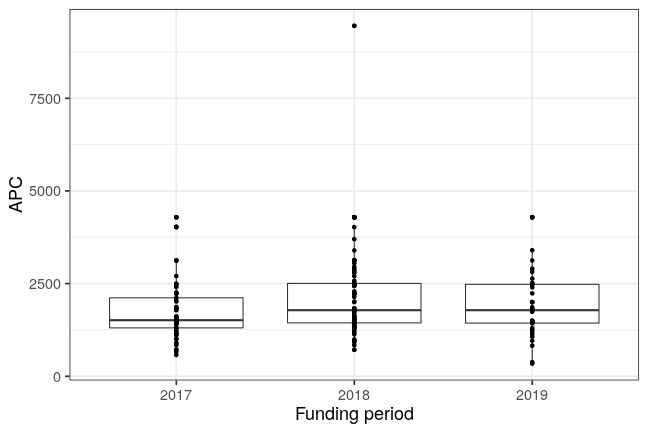
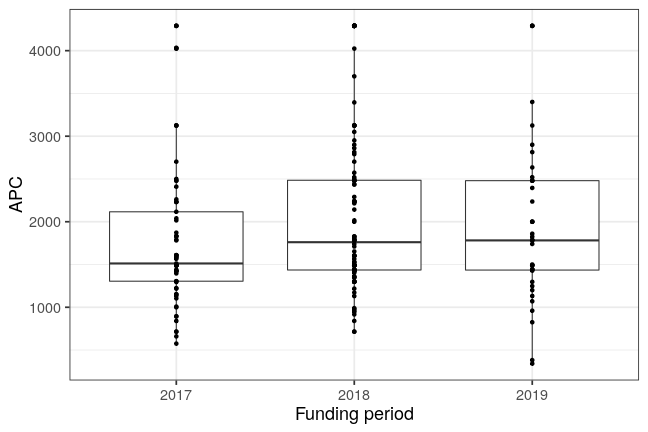
update: geomar joins openapc

diff --git a/_posts/2019-06-06-geomar.md b/_posts/2019-06-06-geomar.md
@@ -16,13 +16,13 @@ We welcome the [GEOMAR - Helmholtz Centre for Ocean Research Kiel](https://www.g
 
 The [GEOMAR Library](https://www.geomar.de/en/centre/central-facilities/library/) manages the institution's APC expenditures in accordance with the GEOMAR [OA Policy](http://oceanrep.geomar.de/oa.html).
 
-Contact Person is [Barbara Schmidt](mailto:bibliotheksleitung@geomar.de).
+Contact Persons are [Barbara Schmidt and Heidi Düpow](mailto:bibliotheksleitung@geomar.de).
 
 ## Cost data
 
 
 
-The initial dataset provided by the GEOMAR covers publication fees for 208 articles published from 2017 to 2019. Total expenditure amounts to 414 096€ and the average fee is 1 991€.
+The initial dataset provided by the GEOMAR covers publication fees for 208 articles published from 2017 to 2019. Total expenditure amounts to 405 587€ and the average fee is 1 950€.
 
 
 |                                  | Articles| Fees paid in EURO| Mean Fee paid|
@@ -48,7 +48,7 @@ The initial dataset provided by the GEOMAR covers publication fees for 208 artic
 |Georg Thieme Verlag KG            |        1|              2500|          2500|
 |IOP Publishing                    |        1|              1800|          1800|
 |Optical Society of America (OSA)  |        1|              2215|          2215|
-|PeerJ                             |        1|              9454|          9454|
+|PeerJ                             |        1|               945|           945|
 |The Royal Society                 |        1|              2040|          2040|
 
 ## Overview
